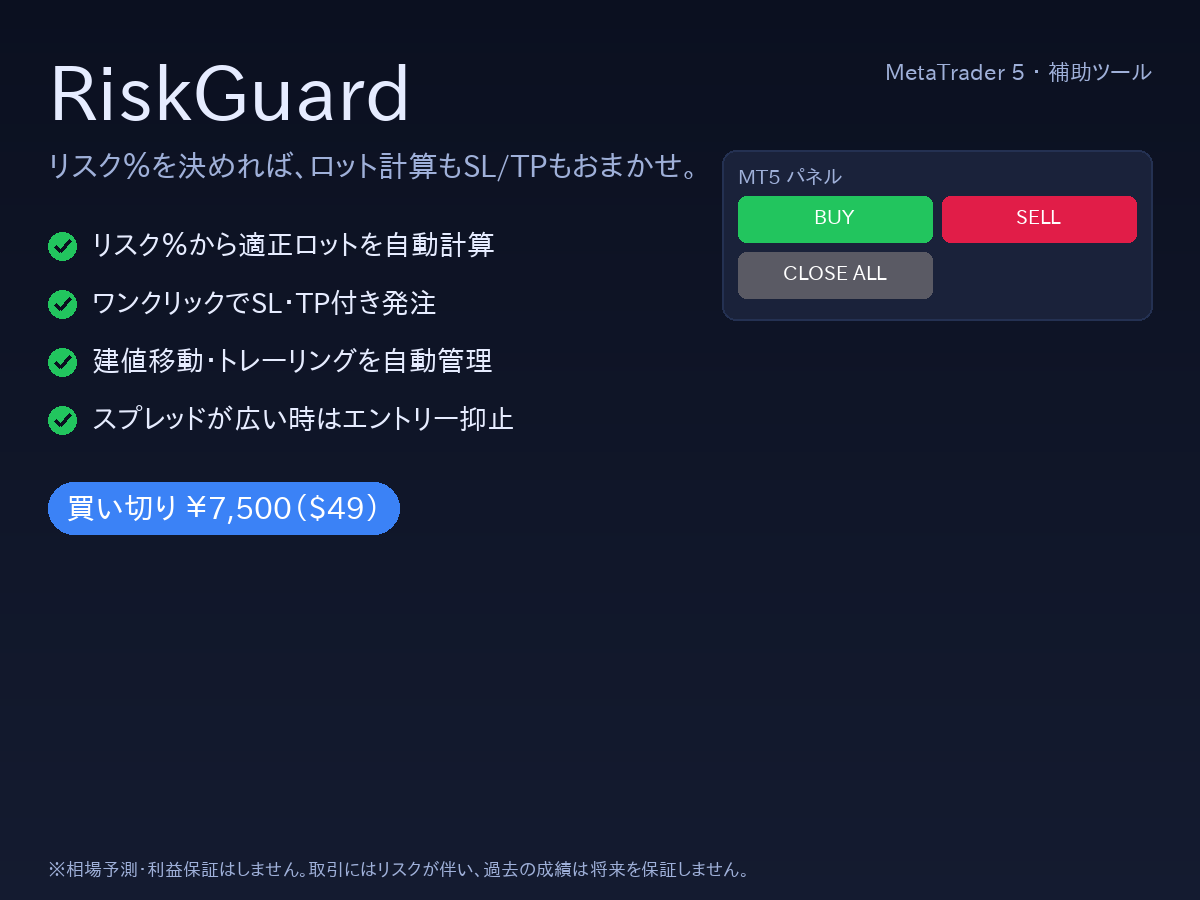
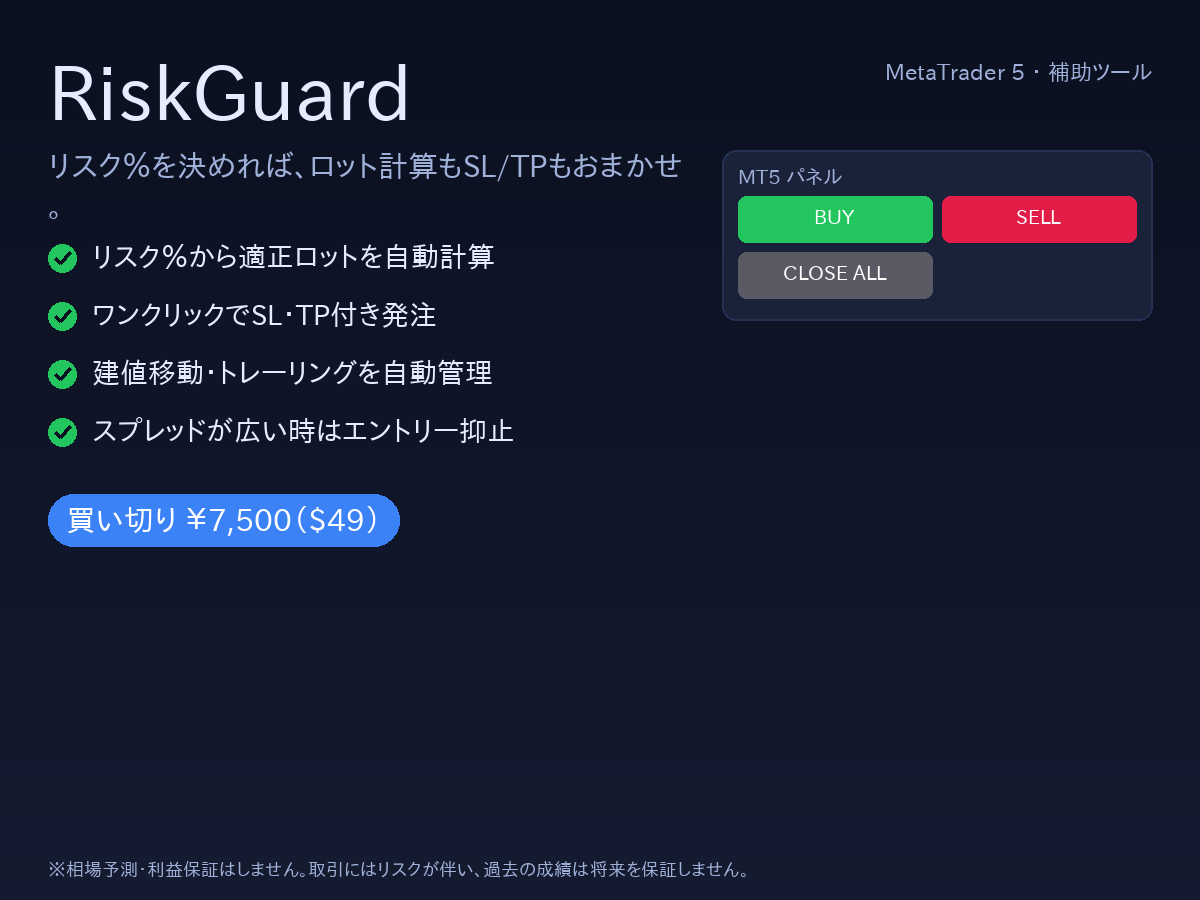
Fix listing image layout: wrap tag text, prevent panel overlap

Changed region(s): [[0.0308, 0.2489, 0.4317, 0.4978], [0.0308, 0.5289, 0.3392, 0.6222]]

diff --git a/ea-business/scripts/gen_listing_images.py b/ea-business/scripts/gen_listing_images.py
@@ -87,6 +87,21 @@ def text_w(draw, s, f):
     return b[2] - b[0]
 
 
+def wrap_jp(draw, s, f, max_w):
+    """Wrap Japanese text by character to fit max_w (no spaces in JP)."""
+    lines, cur = [], ""
+    for ch in s:
+        if ch == "\n":
+            lines.append(cur); cur = ""; continue
+        if text_w(draw, cur + ch, f) > max_w and cur:
+            lines.append(cur); cur = ch
+        else:
+            cur += ch
+    if cur:
+        lines.append(cur)
+    return lines
+
+
 def draw_checks(draw, x, y, items, f, gap=58):
     for i, it in enumerate(items):
         cy = y + i * gap
@@ -138,19 +153,26 @@ def make_image(spec: dict, size: tuple[int, int], variant: str) -> Image.Image:
     img = vgradient(w, h)
     d = ImageDraw.Draw(img)
 
-    # left text column
-    lx = 48
-    d.text((lx, 54), spec["name"], font=font(76), fill=FG)
-    d.text((lx, 150), spec["tag"], font=font(30), fill=MUTED)
-
-    draw_checks(d, lx, 232, spec["features"], font(28))
-
-    price_badge(d, lx, 232 + len(spec["features"]) * 58 + 18, spec["price"])
-
-    # right column: panel mock (only on wide enough)
+    # right column: panel mock
     panel_w = 430
     px = w - panel_w - 48
     py = 150
+
+    # left text column — bounded so it never overlaps the panel
+    lx = 48
+    left_max = px - lx - 32
+    d.text((lx, 54), spec["name"], font=font(76), fill=FG)
+
+    tagf = font(30)
+    ty = 150
+    for line in wrap_jp(d, spec["tag"], tagf, left_max):
+        d.text((lx, ty), line, font=tagf, fill=MUTED)
+        ty += 40
+
+    draw_checks(d, lx, ty + 14, spec["features"], font(28))
+
+    price_badge(d, lx, ty + 14 + len(spec["features"]) * 58 + 18, spec["price"])
+
     draw_panel_mock(d, px, py, panel_w, spec["buttons"])
 
     # "MT5 / 補助ツール" tag top-right
